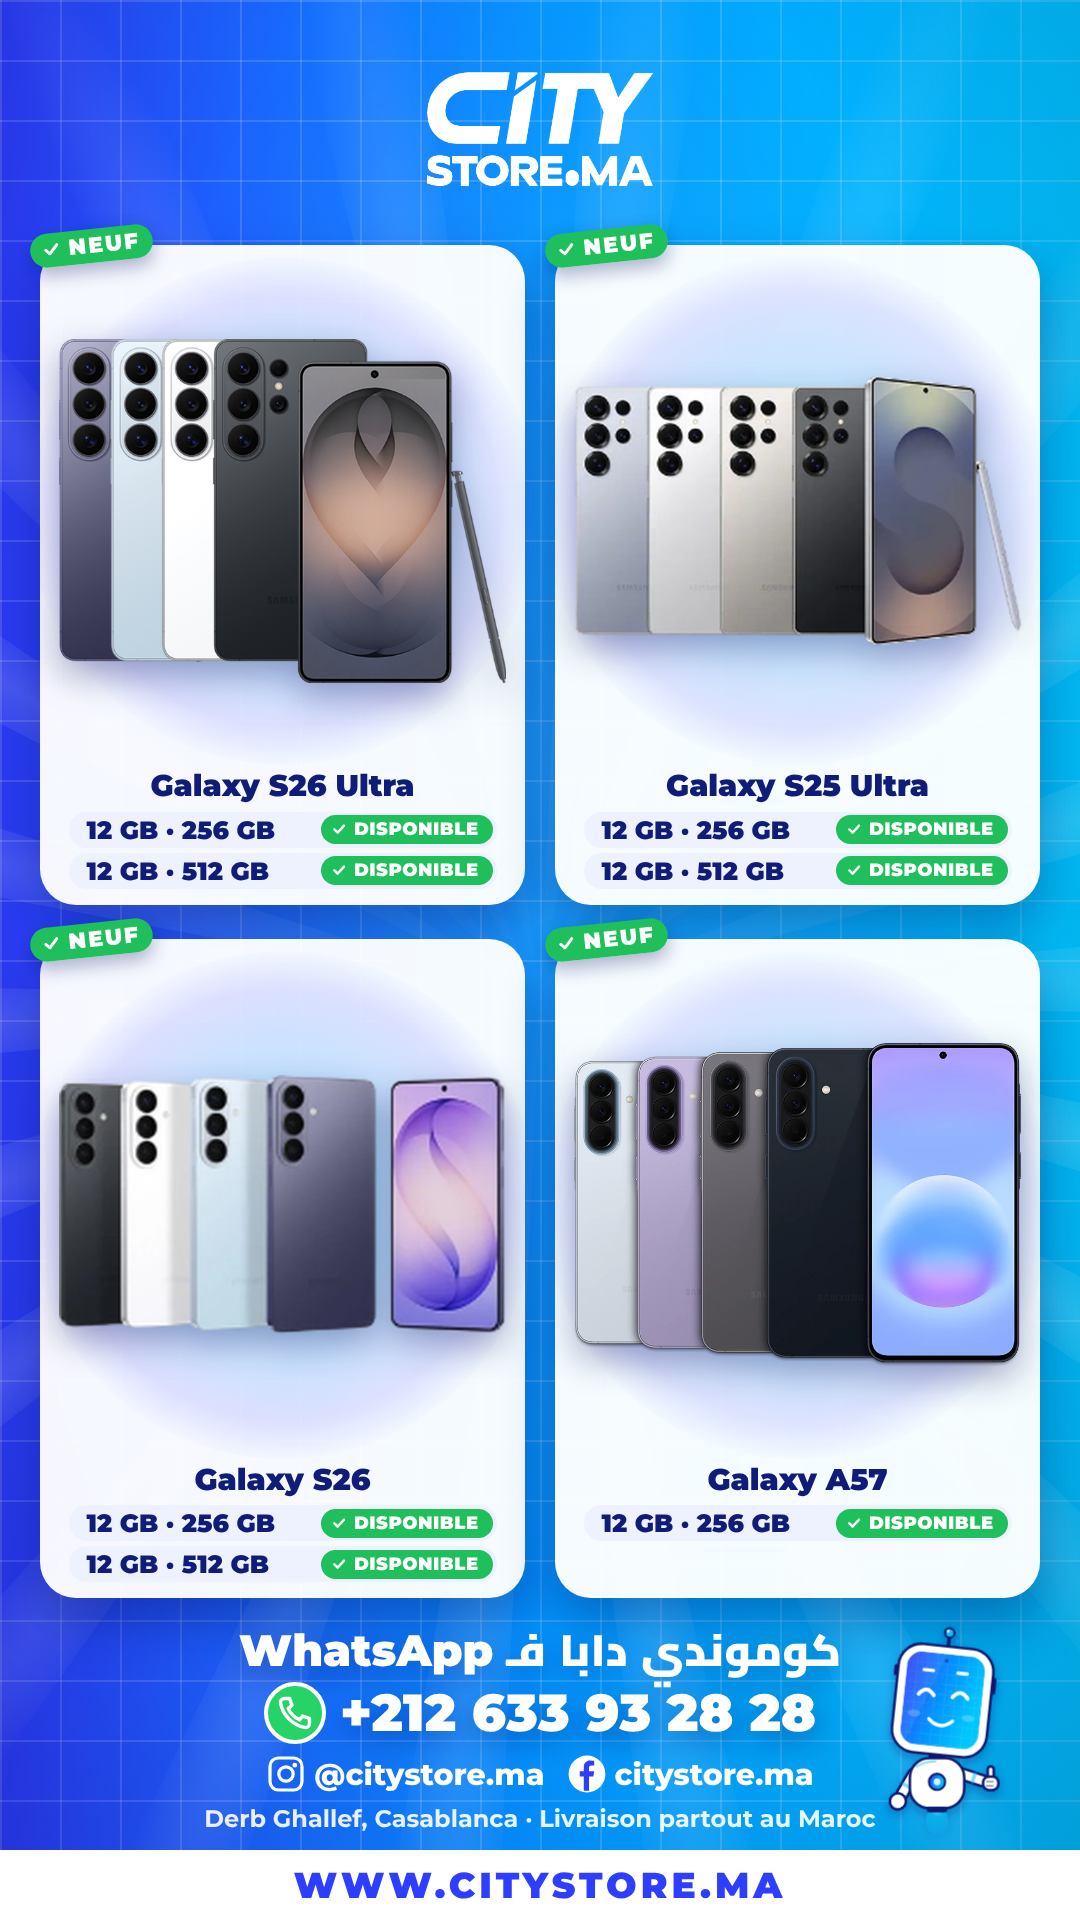
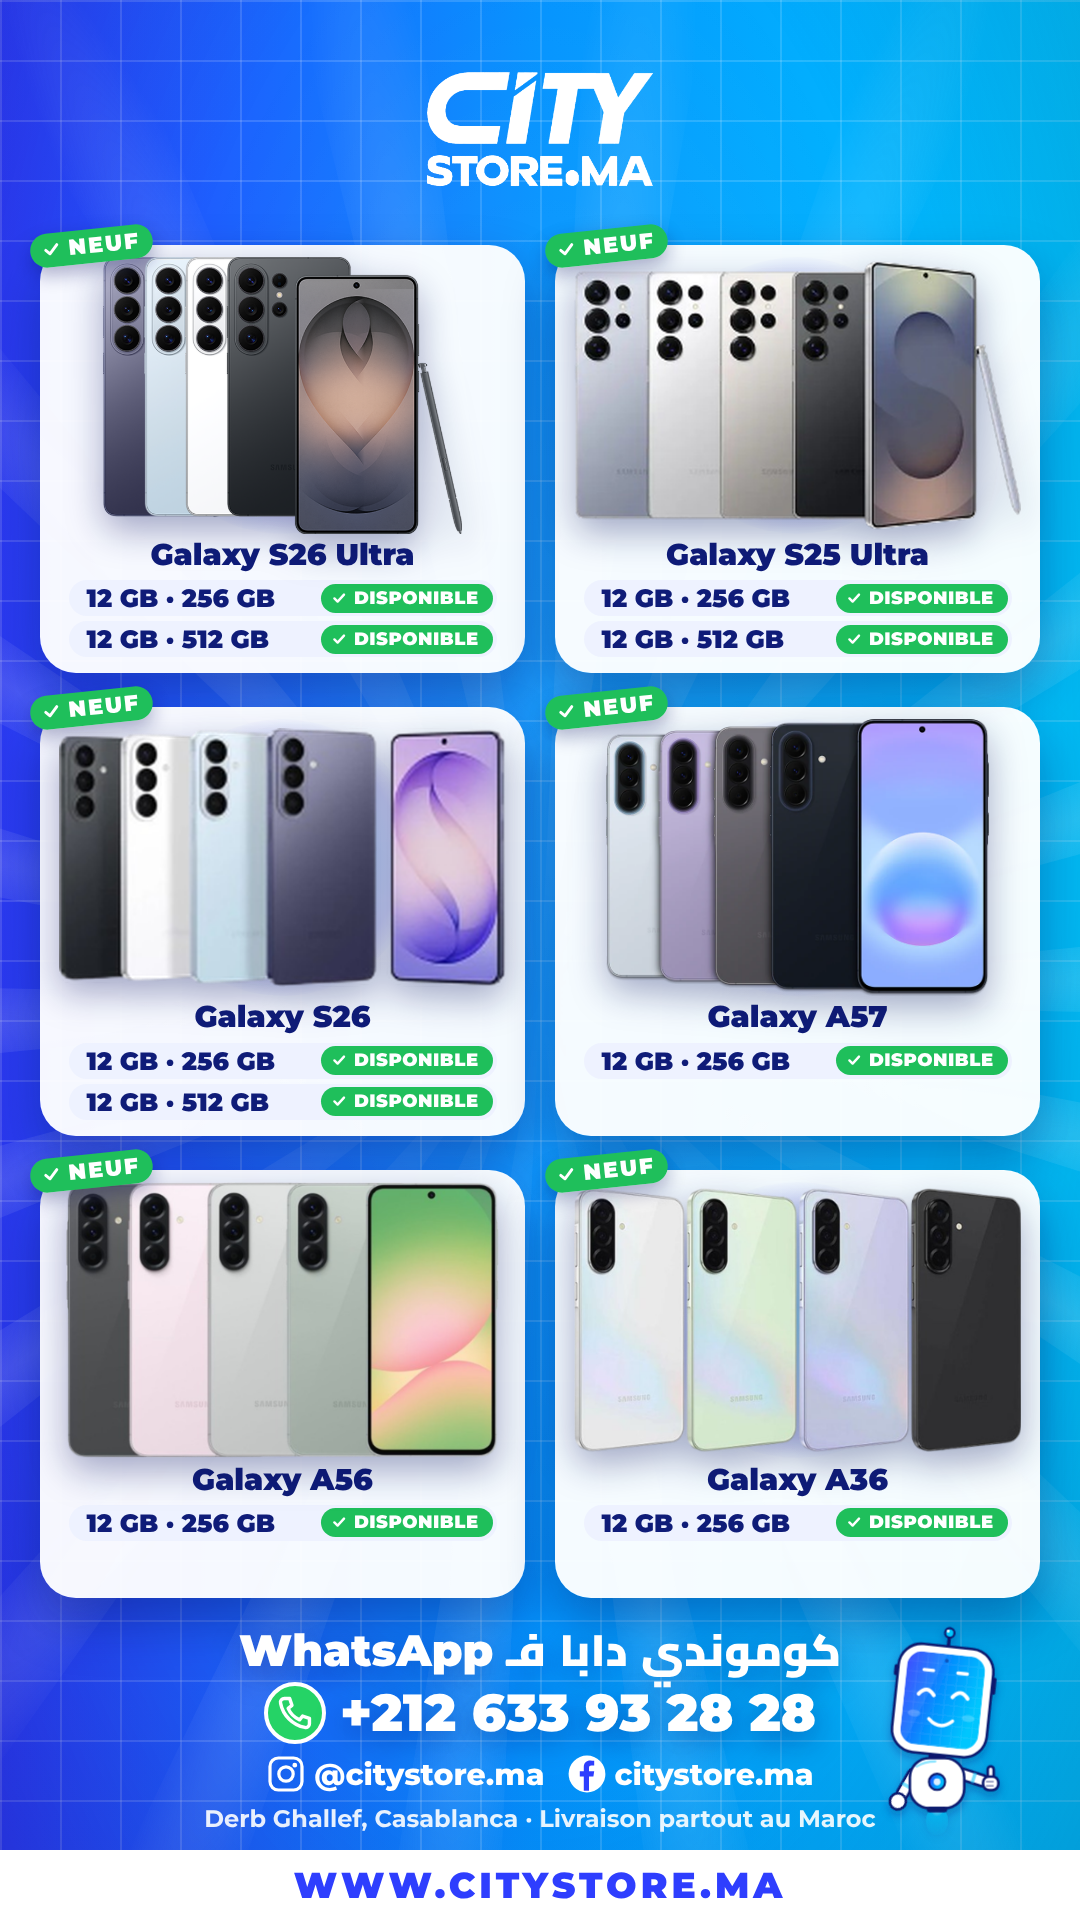
Samsung story: add Galaxy A56 and A36
Claude-Session: https://claude.ai/code/session_01B6UvVnyVQqoyQ1GwELGaCV

diff --git a/src/pricelist/lists.ts b/src/pricelist/lists.ts
@@ -64,6 +64,8 @@ export const PRICE_LISTS: Record<string, PriceListProps> = {
       { name: "Galaxy S25 Ultra", img: "pricelist/samsung/s25ultra.png", stock: ["12 GB · 256 GB", "12 GB · 512 GB"] },
       { name: "Galaxy S26", img: "pricelist/samsung/s26.png", stock: ["12 GB · 256 GB", "12 GB · 512 GB"] },
       { name: "Galaxy A57", img: "pricelist/samsung/a57.png", stock: ["12 GB · 256 GB"] },
+      { name: "Galaxy A56", img: "pricelist/samsung/a56.png", stock: ["12 GB · 256 GB"] },
+      { name: "Galaxy A36", img: "pricelist/samsung/a36.png", stock: ["12 GB · 256 GB"] },
     ].map((p) => ({ ...p, condition: "neuf" as const })),
   },
 };

diff --git a/assets/pricelist/samsung/SOURCES.md b/assets/pricelist/samsung/SOURCES.md
@@ -7,3 +7,5 @@ Transparent PNGs supplied by City Store (originals in `src/`), trimmed; small on
 - Galaxy S26: `galaxy_s26_colours.png` (301 px, 4 colours + front) -> `s26.png` (3x).
 - Galaxy A57: `galaxy_a57_colours.png` (1600 px, 4 colours + front) -> `a57.png`.
 Configurations as given by City Store: S26 Ultra / S25 Ultra / S26: 12 GB / 256 GB + 12 GB / 512 GB; A57: 12 GB / 256 GB.
+- Galaxy A56: `galaxy_a56_colours.png` (Graphite, Pink, Light Gray, Olive + front) -> `a56.png` (2x). 12 GB / 256 GB.
+- Galaxy A36: `galaxy_a36_colours.png` (White, Lime, Lavender, Black) -> `a36.png` (2x). 12 GB / 256 GB.
